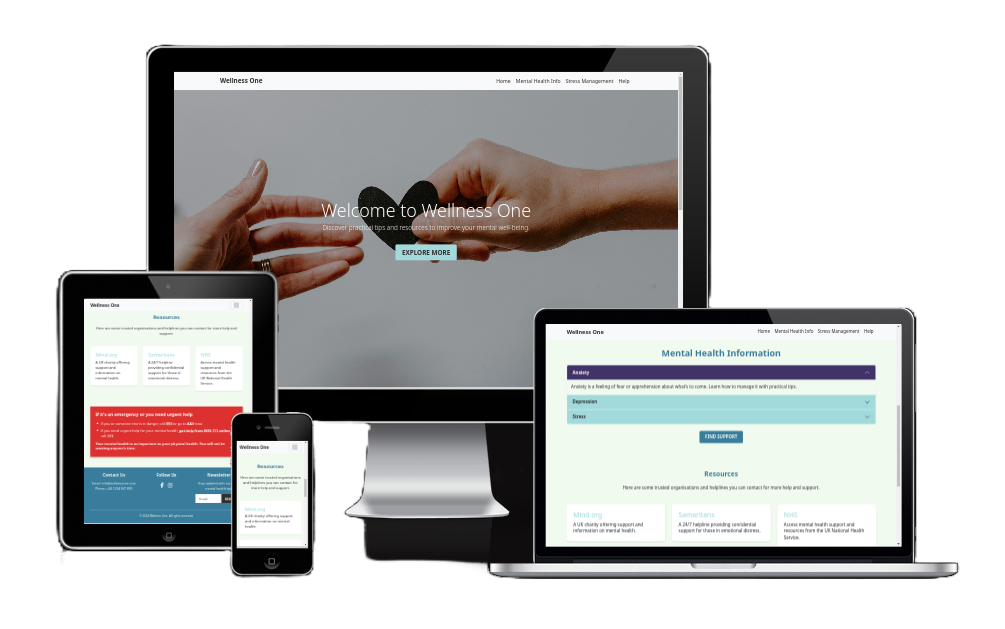
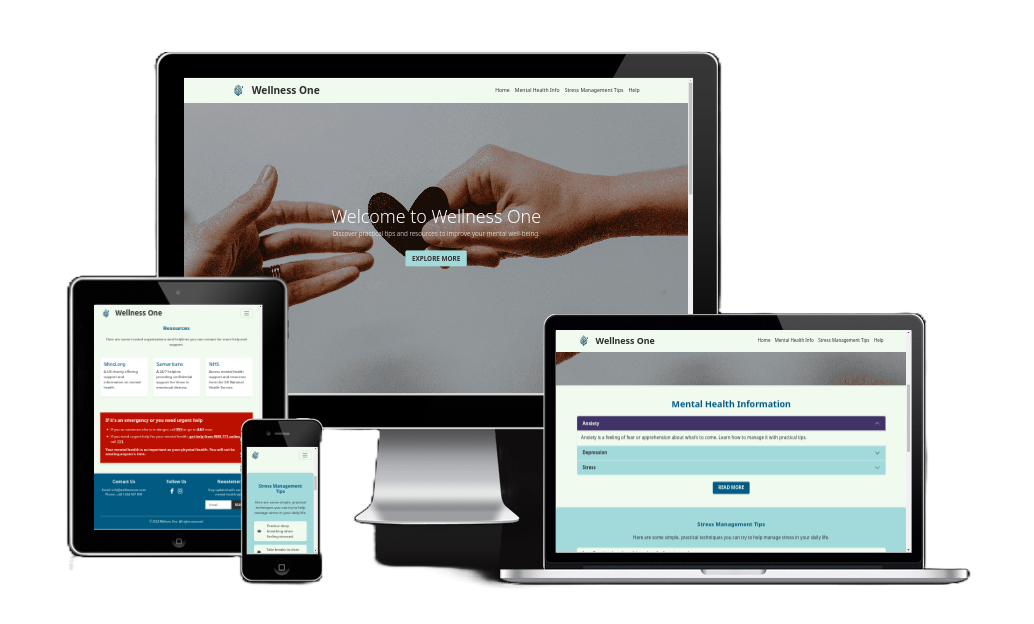
update navbar container to be fluid

diff --git a/index.html b/index.html
@@ -19,7 +19,7 @@
 <body>
     <!-- Navbar -->
     <nav class="navbar navbar-expand-lg fixed-top">
-        <div class="container">
+        <div class="container-fluid">
 
             <a class="navbar-brand d-none d-sm-block" href="#">
                 <img src="assets/images/nav-logo.svg" width="50" height="50" class="d-inline-block align-top"
